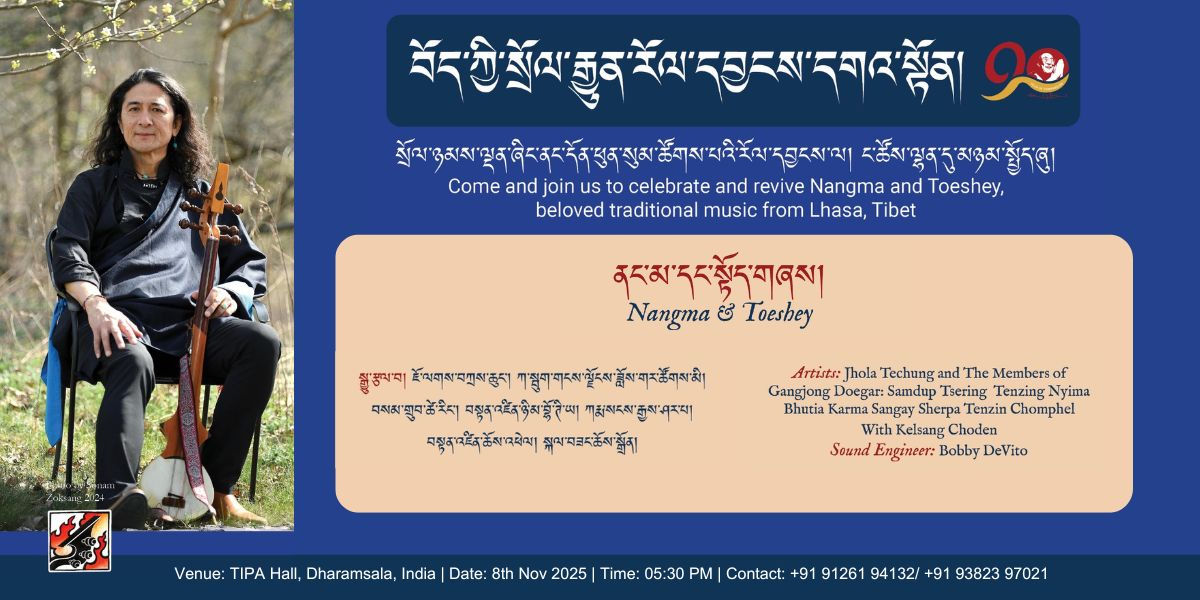
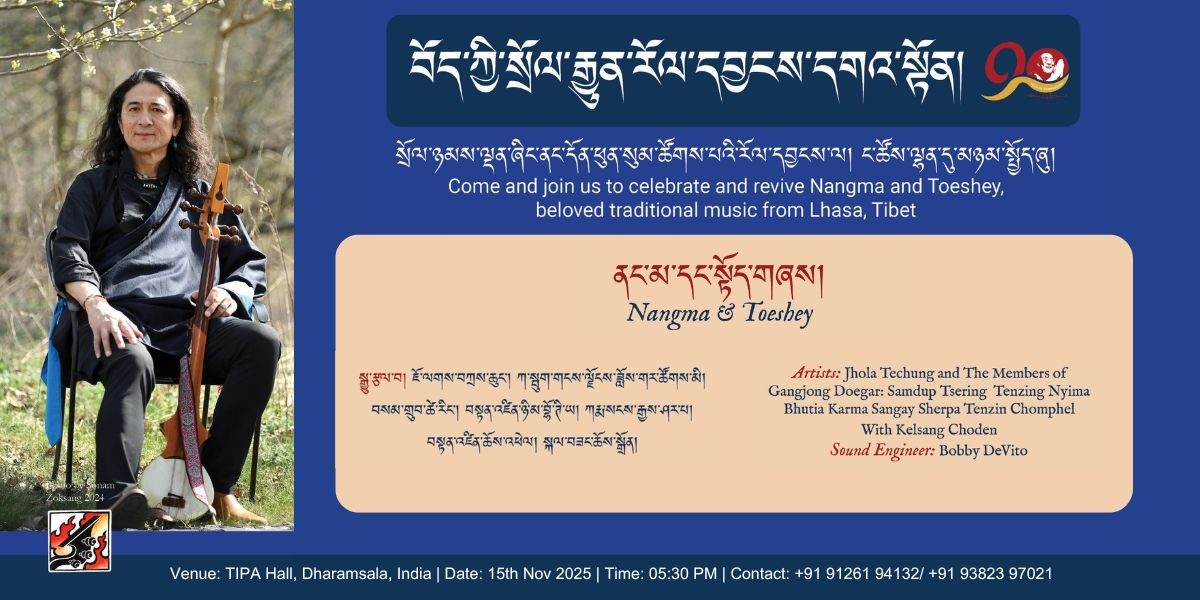
Admin system: data+PHP endpoints; admin UI (tours/merch dashboard, profile & change password); JSON loaders with fallbacks; remove times on homepage events; fix login flow; remove music admin per request

Changed region(s): [[0.1233, 0.93, 0.8942, 0.99]]

diff --git a/events.js b/events.js
@@ -2,31 +2,38 @@
 const tourEvents = [
     {
         date: "2025-10-31",
-        venue: "ནང་མ་དང་སྟོད་གཞས། Nangma Toeshey",
+        venue: "ནང་མ་དང་སྟོད་གཞས། Nangma and Toeshey",
         location: "Mani Lhakhang, Kalimpong, India",
         time: "16:00",
         details: "Big news, everyone! I am coming to Kalimpong this October. <br>Your energy and support mean everything, and I promise this tour will be unforgettable!<br><img src='img/events/kalimpong-event-2025.jpg' alt='Kalimpong Event' style='max-width: 100%; height: auto; margin-top: 1rem; border-radius: 8px;'>"
     },
     {
         date: "2025-11-01",
-        venue: "ནང་མ་དང་སྟོད་གཞས། Nangma Toeshey",
+        venue: "ནང་མ་དང་སྟོད་གཞས། Nangma and Toeshey",
         location: "Sambhota Tibetan School, Darjeeling, India",
         time: "16:00",
         details: "Big news, everyone! I am coming to Darjeeling this November. <br>Your energy and support mean everything, and I promise this tour will be unforgettable!<br><img src='img/events/darjeeling-event-2025.jpg' alt='Darjeeling Event' style='max-width: 100%; height: auto; margin-top: 1rem; border-radius: 8px;'>"
     },
     {
         date: "2025-11-02",
-        venue: "ནང་མ་དང་སྟོད་གཞས། Nangma Toeshey",
+        venue: "ནང་མ་དང་སྟོད་གཞས། Nangma and Toeshey",
         location: "Cholka Sum Hall, Gangtok, India",
         time: "16:00",
         details: "Big news, everyone! I am coming to Gangtok this November. <br>Your energy and support mean everything, and I promise this tour will be unforgettable!<br><img src='img/events/gangtok-event-2025.jpg' alt='Gangtok Event' style='max-width: 100%; height: auto; margin-top: 1rem; border-radius: 8px;'>"
     },
     {
-        date: "2025-11-08",
-        venue: "ནང་མ་དང་སྟོད་གཞས། Nangma Toeshey",
+        date: "2025-11-15",
+        venue: "ནང་མ་དང་སྟོད་གཞས། Nangma and Toeshey",
         location: "TIPA Hall, Dharamsala, India",
         time: "17:30",
         details: "Big news, everyone! I am coming to Dharamsala this November. <br>Your energy and support mean everything, and I promise this tour will be unforgettable!<br><img src='img/events/dharamsala-event-2025.jpg' alt='Dharamsala Event' style='max-width: 100%; height: auto; margin-top: 1rem; border-radius: 8px;'>"
+    },
+    {
+        date: "2025-10-25",
+        venue: "Techung Boby DeVito",
+        location: "Temple Road, Mcloed Ganj, Dharamsala (opposite to Ropeway, near parking ground)",
+        time: "17:00",
+        details: "<img src='img/events/khadhok-event-2025.jpg' alt='Dharamsala Event' style='max-width: 100%; height: auto; margin-top: 1rem; border-radius: 8px;'>"
     },
 ];
 

diff --git a/index.html b/index.html
@@ -186,7 +186,6 @@
                     <div class="event-date">${formattedDate.month} ${formattedDate.day}, ${formattedDate.year}</div>
                     <div class="event-venue">${event.venue}</div>
                     <div class="event-location">${event.location}</div>
-                    <div class="event-time">${event.time}</div>
                 `;
                 
                 container.appendChild(eventCard);

diff --git a/styles.css b/styles.css
@@ -414,7 +414,7 @@ footer .container {
     font-family: 'Monlam Uni Dutsa', serif;
     font-size: 3rem;
     font-weight: 400;
-    color: #7b5529;
+    color: #8a0000;
     margin-bottom: 2rem;
     text-align: left;
     line-height: 1.4;
